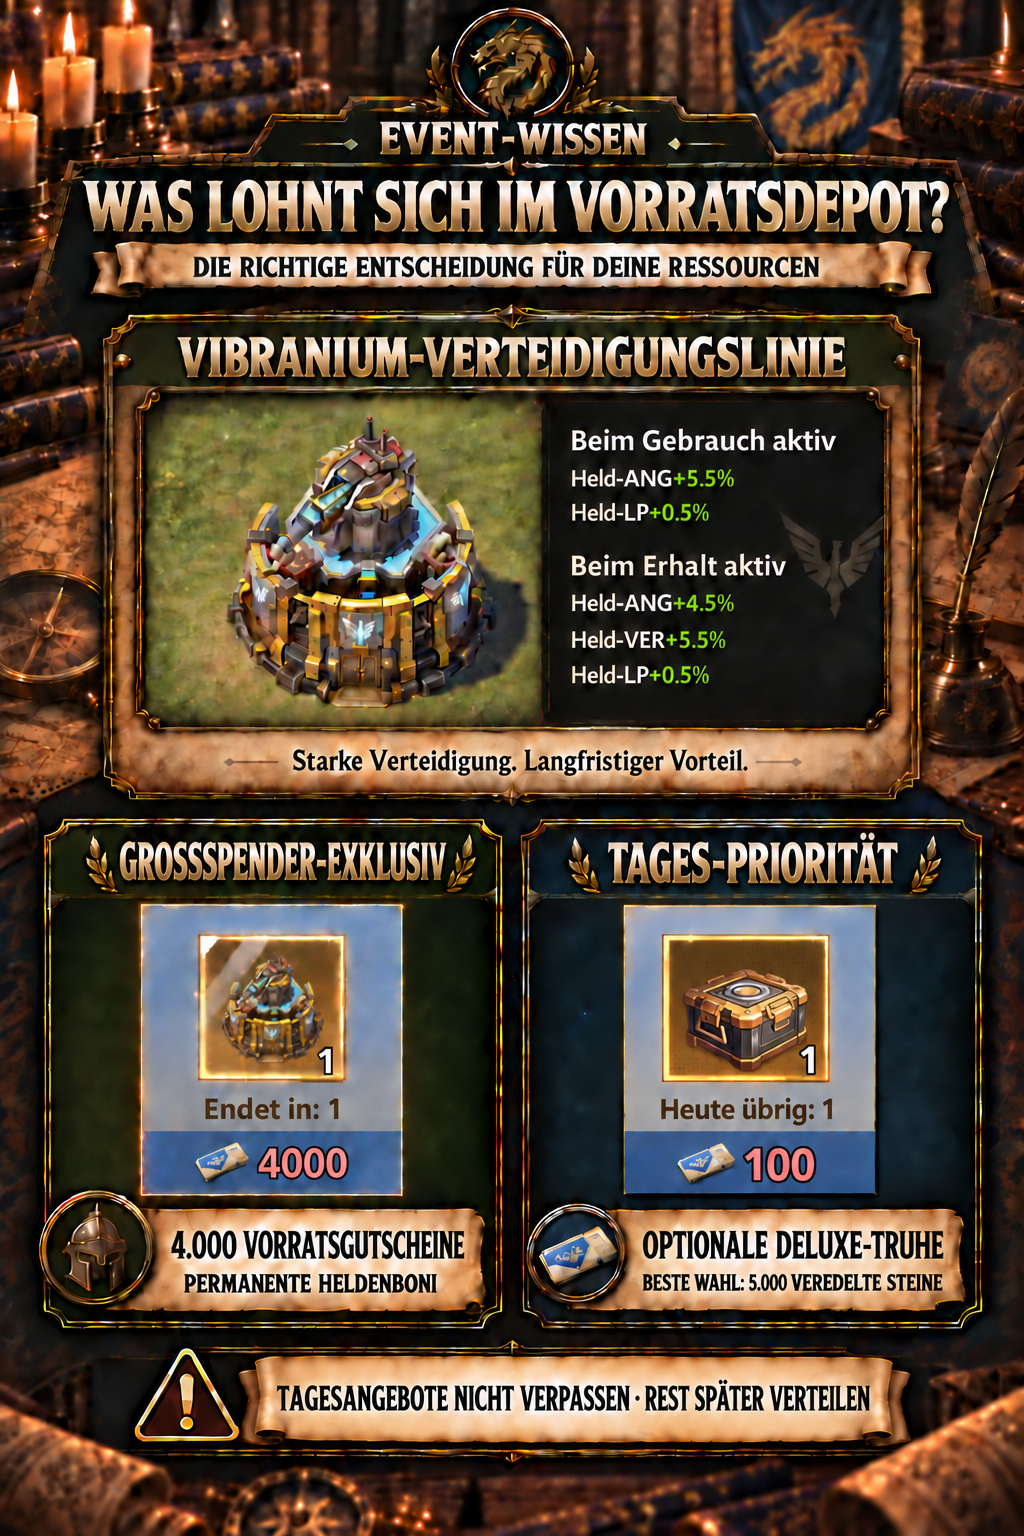
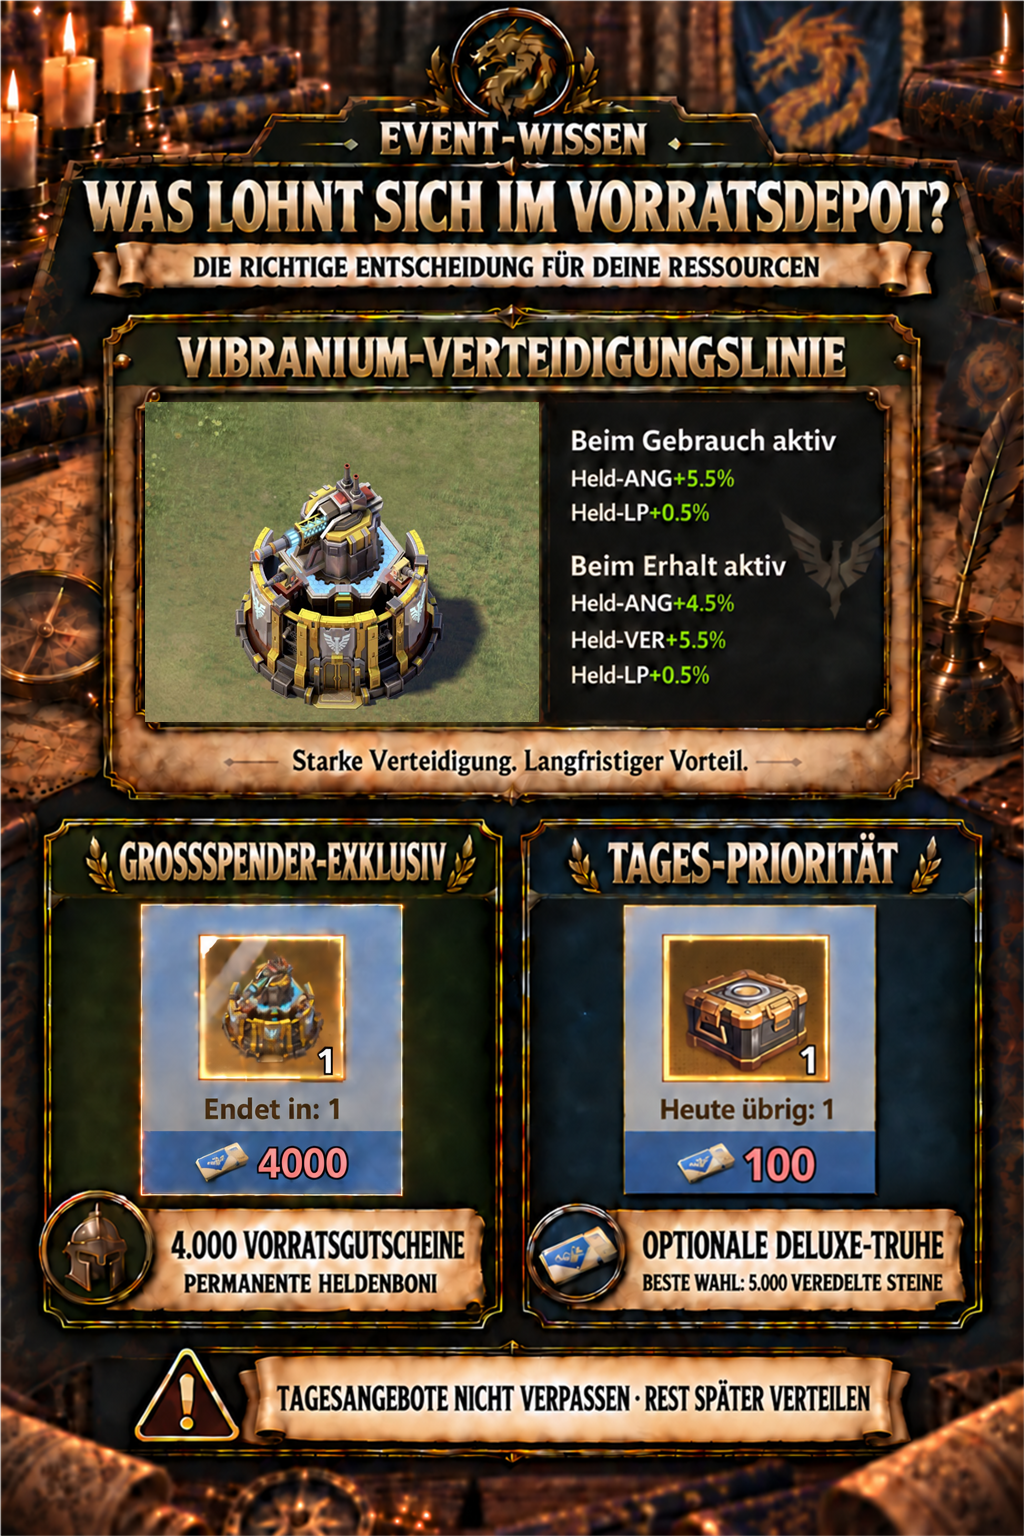
Clarify event purchase strategy and skin costs
Updated the event guides to compare coin pulls against direct voucher purchases, showing that coins have the better expected value while direct vouchers offer planning certainty. Added a clearer decision framework for daily targets and a more precise recommendation for the 4,000-voucher skin: expected coin cost around 250 €, direct safe purchase around 596 €, and the practical mixed strategy of drawing first and then buying only the remaining gap. Also refreshed the associated event image.

diff --git a/Drachenwissen/Events/Event_01_GefechtsvorbereitungFlugbesatzung.md b/Drachenwissen/Events/Event_01_GefechtsvorbereitungFlugbesatzung.md
@@ -14,6 +14,7 @@ status: Zeitlich begrenzt
 - **Free2Play** sammelt Münzen und bündelt die Ziehungen möglichst auf den letzten sicheren Nutzungstag. **Gezielte Käufer** können dagegen täglich UR-Omni-Heldensplitter oder die Optionale Deluxe-Truhe sichern.
 - Die **Vibranium-Verteidigungslinie für 4.000 Vorratsgutscheine** ist stark, aber realistisch eine exklusive Belohnung für Großspender – kein vernünftiges Hauptziel für 0 bis 100 € Budget.
 - Bei den direkten Vorratsgutschein-Paketen bietet **2,49 € für 20 Gutscheine** den besten Kurs. Von 5,99 € bis 119,99 € bleibt der Kurs mit etwa 0,15 € je Gutschein praktisch konstant.
+- **Münzen bieten den besseren Erwartungswert, direkte Vorratsgutscheine die höhere Planungssicherheit.** Wer ein tägliches Angebot unbedingt kaufen möchte, sichert zuerst die fehlenden Gutscheine; bei einem Gesamtziel ohne Tageslimit wird zuerst gedreht und erst danach die Restlücke gekauft.
 
 > **Kurzempfehlung:** F2P sammelt Münzen bis zum letzten sicheren Nutzungstag und entscheidet danach über die Vorratsgutscheine. Gezielte Käufer sichern täglich nur die gewünschten UR-Omni-Heldensplitter oder Deluxe-Truhen. Beim Skin-Ziel zuerst alle Ziehungen abschließen und erst danach die verbleibende Gutscheinlücke kaufen.
 
@@ -156,15 +157,15 @@ Der Skin kostet **4.000 Vorratsgutscheine** und ist stark, aber ausdrücklich ke
 
 Wenn Besitz- und Nutzungsbonus wie angezeigt gleichzeitig wirken, erreicht der aktiv verwendete Skin insgesamt **Helden-ANG +10 %, Helden-VER +5,5 % und Helden-LP +1 %**. Das ist eine starke exklusive Belohnung. Sie rechtfertigt aber nicht, mit kleinem oder mittlerem Budget einer zufälligen Lücke bei den Vorratsgutscheinen hinterherzukaufen.
 
-### Realistischer Echtgeldwert des Basis-Skins
+### Echtgeldwert des Basis-Skins: Erwartungswert oder sicherer Kauf
 
 Aus der sichtbaren Grundbelohnung und den direkt ausgewiesenen Kombinationen mit Vorratsgutscheinen ergeben sich rechnerisch etwa **12,8 Vorratsgutscheine pro Münze**. Ohne die nicht sicher bezifferbaren Tagesstufen und Bonusziehungen wären damit im Mittel ungefähr 313 Münzen für 4.000 Vorratsgutscheine nötig.
 
-Nach Abzug der bis zu 83 kostenlosen Münzen bleiben rechnerisch rund 230 zu kaufende Münzen. Werden zuerst alle kleinen Tagespakete genutzt und der Rest zum regulären Kurs von ungefähr 1,20 € pro Münze gekauft, liegt die reine Erwartungsrechnung bei etwa **250 €**.
+Nach Abzug der bis zu 83 kostenlosen Münzen bleiben rechnerisch rund 230 zu kaufende Münzen. Werden zuerst alle kleinen Tagespakete genutzt und der Rest zum regulären Kurs von ungefähr 1,20 € pro Münze gekauft, liegt die reine Erwartungsrechnung bei etwa **250 €**. Dieser Wert beschreibt einen statistischen Mittelwert und garantiert den Skin nicht.
 
-Die neuen direkten Gutscheinpakete ermöglichen anschließend einen gezielten Lückenschluss: Das 2,49-€-Paket kostet rund 0,125 € je Vorratsgutschein, größere Pakete rund 0,15 €. Würden alle 4.000 Gutscheine ausschließlich direkt gekauft, läge die Größenordnung trotz täglichem Kleinpaket bei knapp **600 €**.
+Der vollständig planbare Weg führt über direkte Gutscheinpakete. Werden über acht erreichbare Kaufperioden jeweils die günstigen 20er-Pakete genutzt, entstehen 160 Gutscheine für 19,92 €. Die verbleibenden 3.840 Gutscheine kosten über die größeren Paketstufen rund 575,93 €. Damit liegt der **sichere Direktkauf bei ungefähr 595,85 €, also rund 596 €**. Kostenlose und bereits erspielte Gutscheine reduzieren diesen Betrag entsprechend.
 
-Tagesstufen, Luftabwürfe und glückliche Ziehungen können den tatsächlichen Bedarf reduzieren; schlechte Ziehungen erhöhen die direkt zu kaufende Restmenge. Als realistische Mischkalkulation aus Münzen und anschließendem Lückenschluss sind ungefähr **250 bis 350 €** anzusetzen. Wer den Skin sehr sicher einplant, sollte eher eine Reserve bis etwa **400 €** akzeptieren. Eine Garantie entsteht erst, wenn die fehlenden Vorratsgutscheine nach den Ziehungen tatsächlich direkt gekauft werden.
+Die sinnvollste Kaufstrategie liegt dazwischen: zuerst kostenlose und günstig gekaufte Münzen einsetzen, danach den tatsächlichen Gutscheinbestand prüfen und nur die Restlücke direkt schließen. Der rechnerische Münz-Erwartungswert beginnt bei etwa **250 €**; ein Budget von **250 bis 400 €** ist jedoch weiterhin keine feste Garantie, solange der abschließende Direktkauf der Restlücke nicht einkalkuliert ist. Die einzige vorab vollständig planbare Obergrenze ist der reine Direktkauf für rund **596 €**.
 
 ![Vibranium-Verteidigungslinie als exklusive Großspender-Belohnung und Veredelte Steine als allgemeine Empfehlung](Event_01_GefechtsvorbereitungFlugbesatzung_Vorratsdepot.png)
 
@@ -225,10 +226,33 @@ Zusätzlich lassen sich Vorratsgutscheine direkt kaufen:
 
 Das 2,49-€-Paket ist beim reinen Gutscheinkurs ungefähr **20 % besser** als die größeren Pakete. Ab 5,99 € ist der Kurs nahezu identisch; die Wahl der Stufe verändert dann hauptsächlich Gesamtmenge, Hilfsgüter und weitere Paketbeigaben.
 
-**Planbare Tagesziele ohne Slot-Ertrag:**
+### Münzen oder Vorratsgutscheine kaufen?
 
-- **UR-Omni-Heldensplitter:** 20er- plus 40er-Paket liefern 60 Vorratsgutscheine für 8,48 €.
-- **Optionale Deluxe-Truhe:** 20er- plus 80er-Paket liefern 100 Vorratsgutscheine für 14,48 €.
+Für einen fairen Vergleich werden beide Wege auf **Vorratsgutscheine je Euro** umgerechnet. Bei Münzen handelt es sich um einen Erwartungswert von etwa 12,8 Gutscheinen pro Münze; bei direkten Gutscheinpaketen ist die angegebene Menge garantiert.
+
+| Kaufweg | Gutscheinertrag | Gutscheine je Euro | Einordnung |
+| --- | ---: | ---: | --- |
+| **2 Münzen für 1,19 €** | ca. 25,6 erwartet | ca. 21,5 | Bester Erwartungswert, aber zufällig |
+| **4 Münzen für 2,49 €** | ca. 51,2 erwartet | ca. 20,6 | Sehr guter Erwartungswert, aber zufällig |
+| **Münzen zum regulären Kurs von ca. 1,20 € je Münze** | ca. 12,8 erwartet | ca. 10,7 | Weiterhin besserer Mittelwert als Direktkauf |
+| **20 direkte Gutscheine für 2,49 €** | 20 garantiert | ca. 8,03 | Bester sicherer Gutscheinkurs |
+| **Größere direkte Gutscheinpakete** | garantiert | ca. 6,67 | Teurer, aber vollständig planbar |
+
+Rein rechnerisch sind Münzen damit effizienter. Sie liefern zusätzlich Slot-Punkte, Tagesstufen und weitere Ziehungsbelohnungen. Der Nachteil ist die Streuung: Ein einzelner Spieler kann deutlich unter dem Erwartungswert landen. Direkte Gutscheine sind deshalb kein besserer Wertkauf, sondern eine **Sicherheitsprämie**.
+
+**Konkrete Beispiele für tägliche Ziele:**
+
+| Tagesziel | Direkter, sicherer Weg | Münzweg im Erwartungswert |
+| --- | --- | --- |
+| **60 Gutscheine für 10 UR-Omni-Heldensplitter** | 20er- plus 40er-Paket: **8,48 € garantiert** | rechnerisch ca. 4,7 Münzen; das kleine Tagespaket-Duo liefert 6 Münzen für **3,68 €** und damit ca. 76,8 Gutscheine erwartet, aber keine Garantie |
+| **100 Gutscheine für die Optionale Deluxe-Truhe** | 20er- plus 80er-Paket: **14,48 € garantiert** | rechnerisch ca. 7,8 Münzen; mit 11 Münzen für **9,67 €** werden ca. 140,8 Gutscheine erwartet, aber auch hier ohne Garantie |
+
+**Entscheidungsregel für Gezielte Käufer:**
+
+- **Tagesangebot muss heute sicher gekauft werden:** Vorhandene Gutscheine anrechnen und nur die konkrete Restmenge direkt kaufen.
+- **Ein verpasstes Tagesangebot wäre verkraftbar:** Günstige Münzpakete bieten den besseren erwarteten Gegenwert.
+- **Größeres Eventziel ohne Tageslimit:** Erst Münzen drehen, danach ausschließlich die verbleibende Gutscheinlücke direkt schließen.
+- **Knappes festes Budget:** Nicht gleichzeitig auf Slot-Glück und mehrere tägliche Käufe planen. Vor dem Kauf ein Hauptziel festlegen.
 
 Der kostenlose Tagesgutschein und bereits erspielte Vorratsgutscheine reduzieren den tatsächlichen Kaufbedarf. Bei einem Gesamtbudget von 20 bis 100 € sollte daher nicht automatisch jeden Tag gekauft werden: Legt zuerst fest, ob Splitter, einzelne Deluxe-Truhen oder möglichst viele Veredelte Steine das Ziel sind.
 
@@ -270,9 +294,9 @@ In der Startsequenz gibt es <b>15 Fliegende-Stern-Münzen pro Eventtag</b>, also
 
 <color=#7FFF00><b>F2P:</b></color> Münzen bis zum letzten sicheren Nutzungstag sammeln und dann gebündelt drehen. Täglich gibt es 1 Vorratsgutschein gratis; der zweite kostet 500 Diamanten und lohnt meist nur zum Schließen einer konkreten Lücke.
 
-<color=#7FFF00><b>GEZIELTE KÄUFER:</b></color> Vorratsgutscheine täglich nur ausgeben, wenn <b>UR-Omni-Heldensplitter</b> oder die <b>Optionale Deluxe-Truhe</b> euer Ziel sind. Beide Angebote haben „Heute übrig: 1“. Der direkte 2,49-€-Kauf mit 20 Gutscheinen hat den besten Gutscheinkurs.
+<color=#7FFF00><b>GEZIELTE KÄUFER:</b></color> Münzen bieten den besseren Erwartungswert, direkte Gutscheine die Sicherheit. Wer die tägliche Belohnung garantiert möchte, zahlt für 60 Gutscheine <b>8,48 €</b> oder für 100 Gutscheine <b>14,48 €</b>. Wer Risiko akzeptiert, kauft zuerst günstige Münzen und schließt danach nur die Restlücke.
 
 In der Deluxe-Truhe sind <b>5.000 Veredelte Steine</b> die beste allgemeine Wahl. Das ist der doppelte Steinkurs des normalen Tauschs. Wer diese Tagesangebote nicht möchte, sammelt die Vorratsgutscheine und verteilt sie rechtzeitig vor Ablauf des Vorratsdepots.
 
-<color=#7FFF00><b>GROSSSPENDER / SKIN-ZIEL:</b></color> Günstige Tagespakete laufend kaufen, Münzen aber erst am letzten sicheren Nutzungstag einsetzen. Danach nur die verbleibende Lücke zu 4.000 Vorratsgutscheinen direkt schließen. Realistische Mischkalkulation: <b>250–350 €</b>, mit Sicherheitsreserve bis ungefähr 400 €.
+<color=#7FFF00><b>GROSSSPENDER / SKIN-ZIEL:</b></color> Münzen bis zum letzten sicheren Nutzungstag sammeln, anschließend nur die verbleibende Lücke zu 4.000 Gutscheinen direkt schließen. Münz-Erwartungswert: etwa <b>250 €</b>. Vollständig sicherer Direktkauf: rund <b>596 €</b> vor Abzug kostenloser oder erspielter Gutscheine.
 ```

diff --git a/Aktuelles/2026_09_28_GefechtsvorbereitungFlugbesatzung.md b/Aktuelles/2026_09_28_GefechtsvorbereitungFlugbesatzung.md
@@ -12,6 +12,6 @@ Wichtig bleibt der tägliche Punktezähler des Flughafen-Spielautomaten: Münzen
 
 Free2Play-Spieler sammeln ihre Münzen am besten bis zum letzten sicheren Nutzungstag und entscheiden erst nach den Ziehungen über die Vorratsgutscheine. Gezielte Käufer können dagegen täglich UR-Omni-Heldensplitter oder einzelne Deluxe-Truhen absichern. Wer aus der Truhe 5.000 Veredelte Steine wählt, erhält den doppelten Steinkurs des normalen Tauschs.
 
-Der vollständige Guide erklärt die neuen direkten Gutscheinpakete, den besten Gutscheinkurs und eine realistische Skin-Mischkalkulation von ungefähr 250 bis 350 €.
+Der vollständige Guide vergleicht jetzt beide Kaufwege: Münzen bieten den besseren Erwartungswert, direkte Vorratsgutscheine garantieren dagegen das gewünschte Tagesziel. Für den Skin liegt der reine Münz-Erwartungswert bei ungefähr 250 €, während der vollständig sichere Direktkauf rund 596 € kosten würde. Am sinnvollsten ist meist die Mischstrategie: erst drehen, anschließend nur die verbleibende Gutscheinlücke direkt schließen.
 
 [Vollständigen Event-Guide öffnen](/drachenhalle/docs/event-01-gefechtsvorbereitung-flugbesatzung/)
